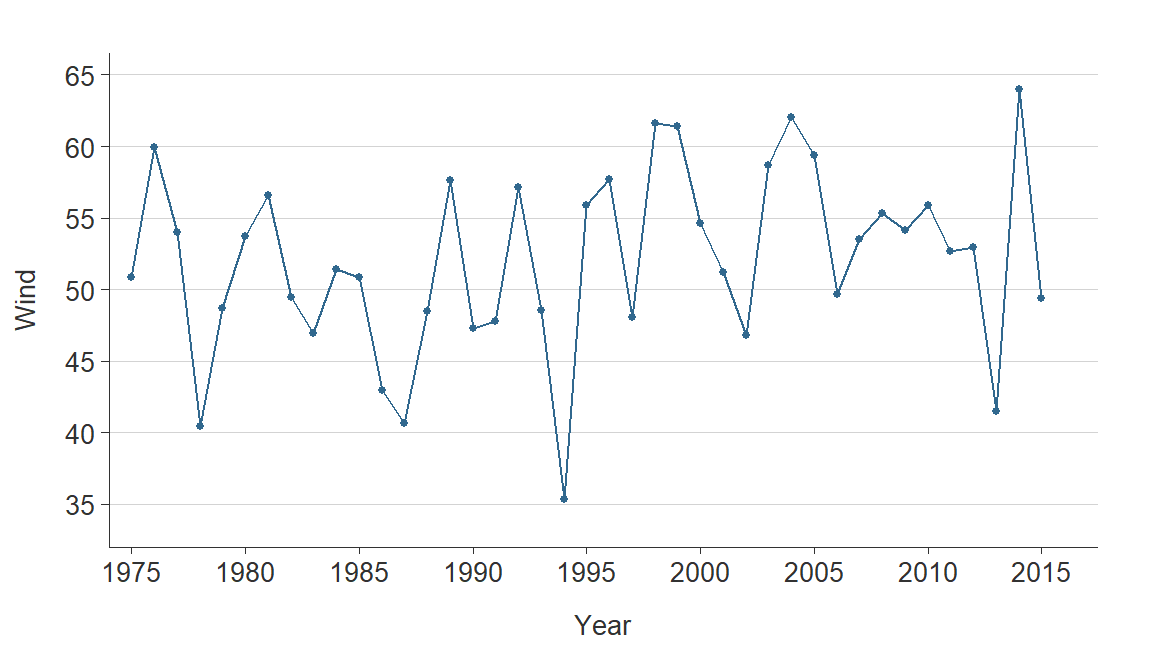
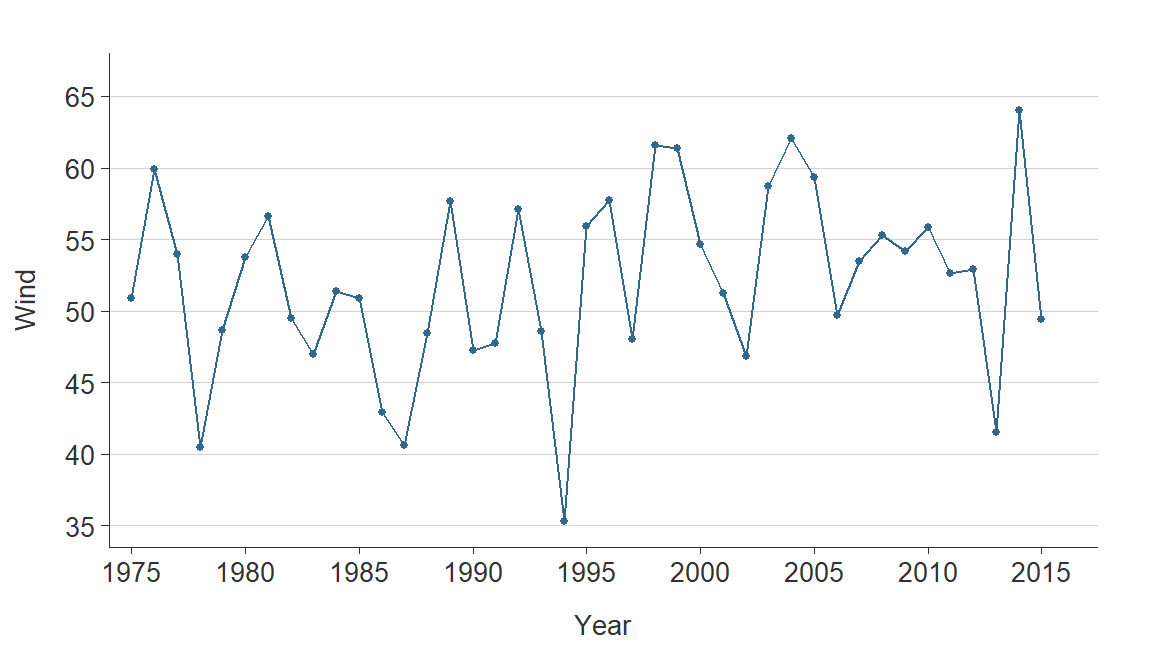
Update

diff --git a/content/post/2021-06-27-scales-with-simplevis/index.html b/content/post/2021-06-27-scales-with-simplevis/index.html
@@ -191,7 +191,7 @@ gg_hbar_col(plot_data, average_price, cut, clarity,
 
 gg_line(plot_data, year, wind, 
         x_expand = ggplot2::expansion(add = c(1, 2.5)),
-        y_expand = ggplot2::expansion(mult = c(0.1, 0.05)))</code></pre>
+        y_expand = ggplot2::expansion(mult = c(0.05, 0.1)))</code></pre>
 <p><img src="{{< blogdown/postref >}}index_files/figure-html/unnamed-chunk-21-1.png" width="576" /></p>
 </div>
 <div id="further-information" class="section level3">
